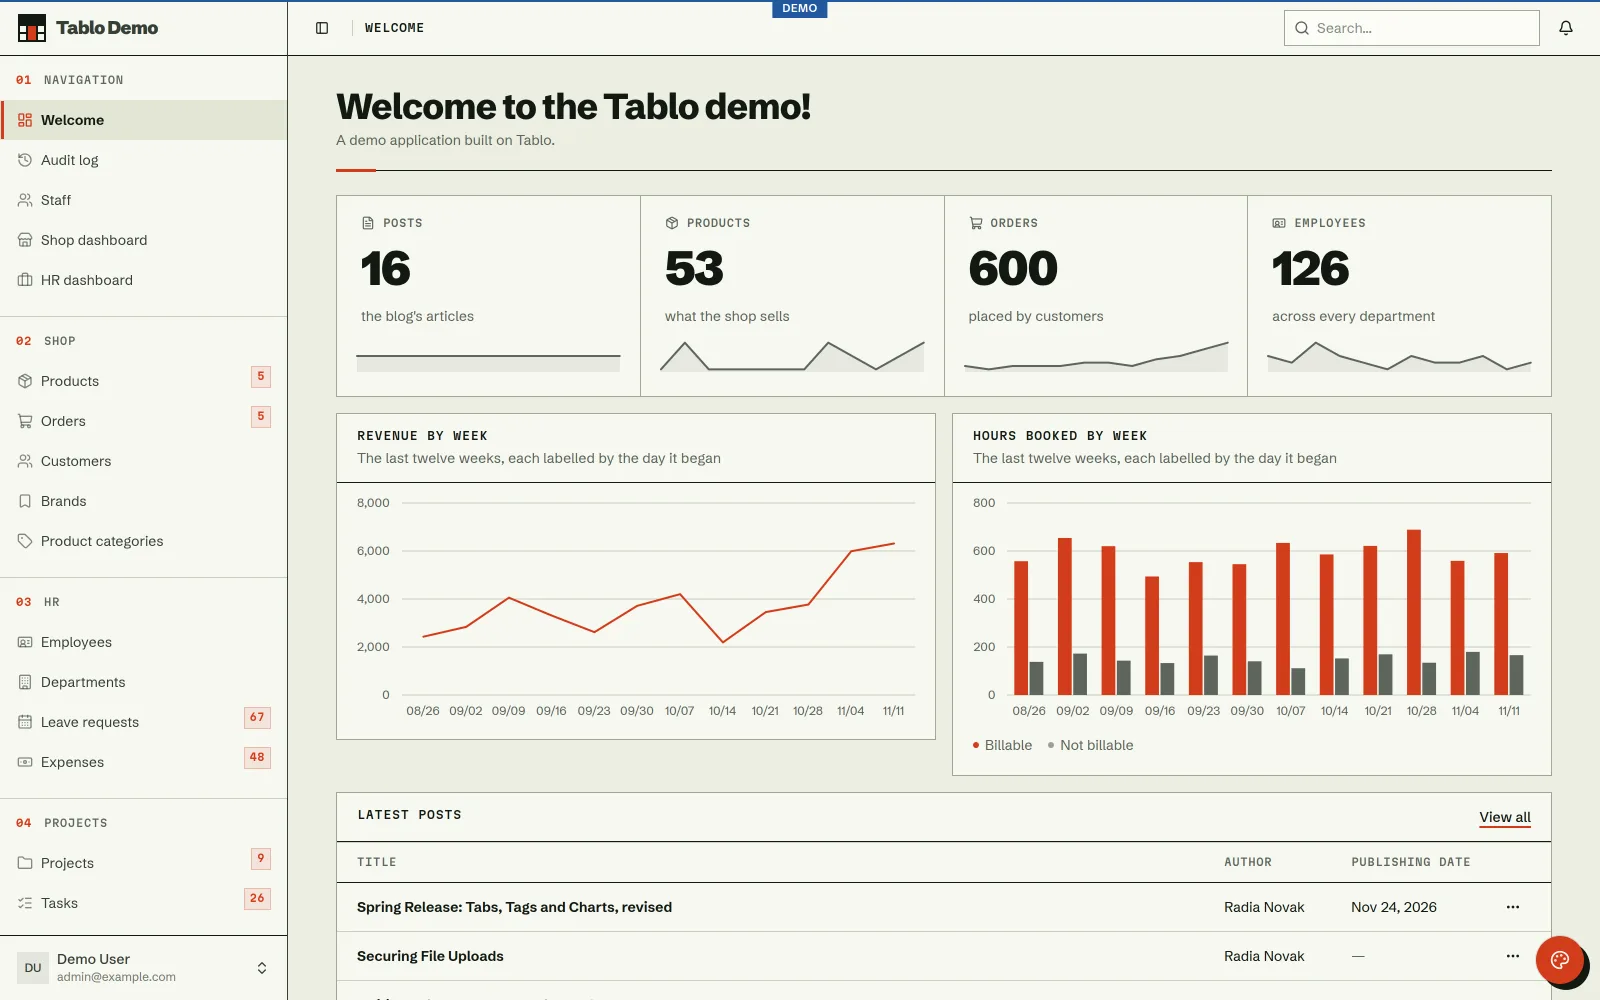
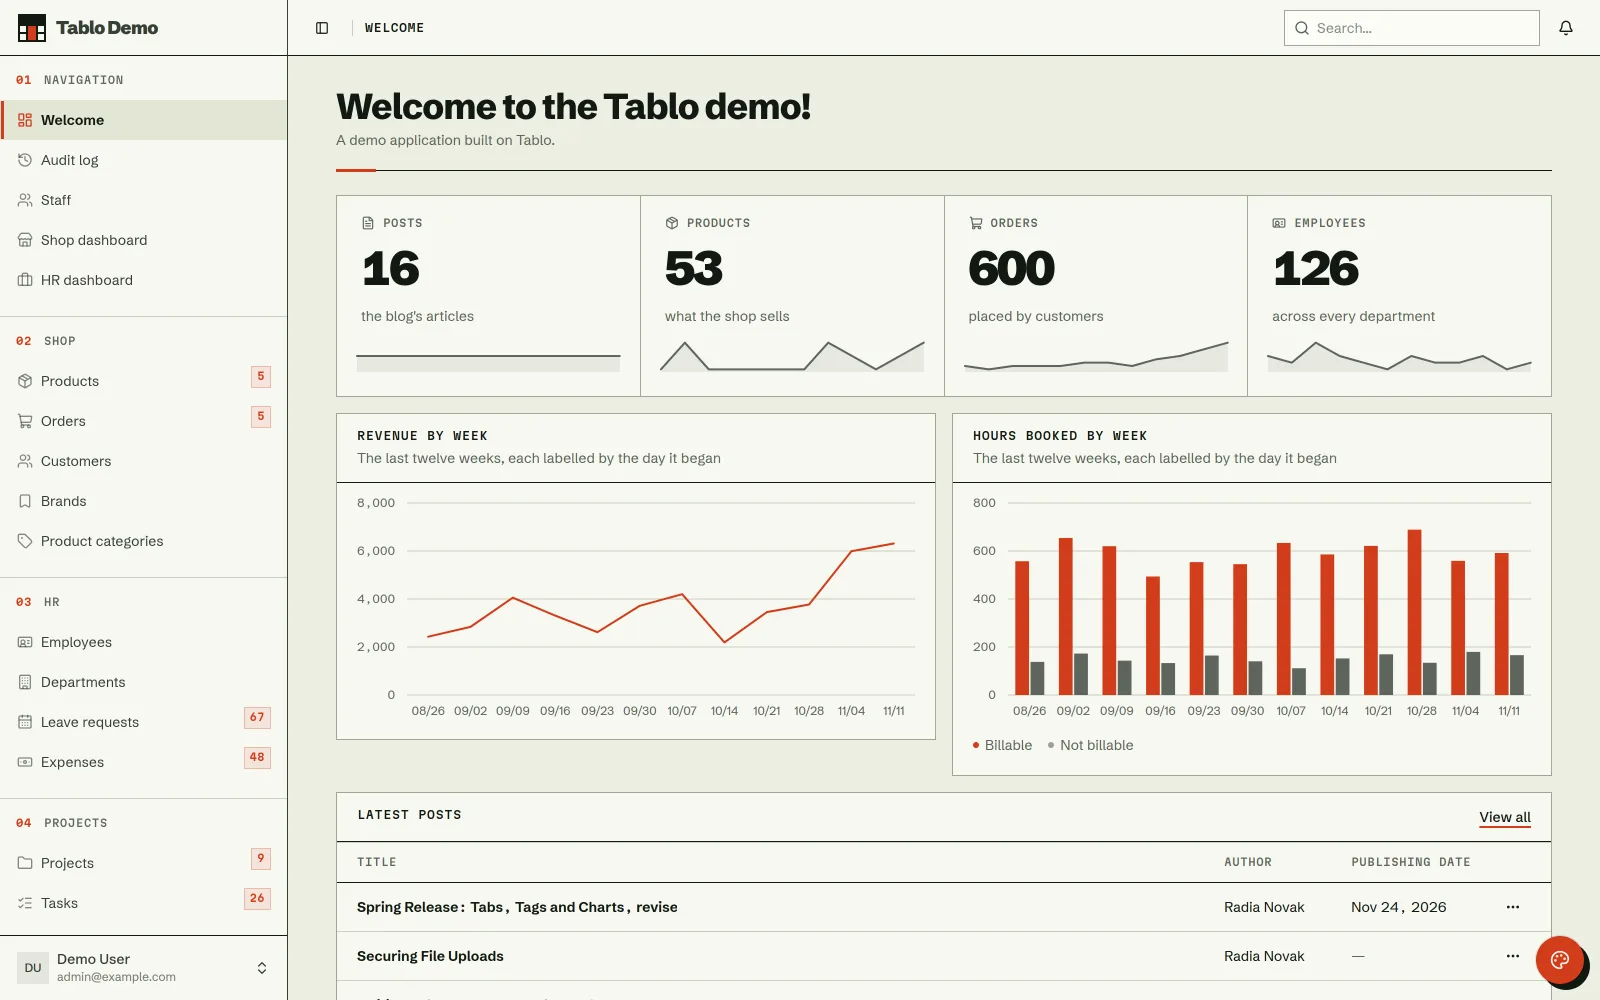
docs(site): retake the demo's shots without the environment ribbon
The demo no longer wears its Demo ribbon, so the landing page's shots are
retaken from the merged demo, and the post list's sort and author callouts
move to match the new capture.

diff --git a/site/index.html b/site/index.html
@@ -75,8 +75,8 @@
               <span class="pin" data-pin="create" data-n="1" style="left:85.4%;top:9.78%;width:10.94%;height:4%"></span>
               <span class="pin" data-pin="widget" data-n="2" style="left:3.66%;top:18.78%;width:92.68%;height:17.35%"></span>
               <span class="pin" data-pin="search" data-n="3" style="left:5.26%;top:39.35%;width:21.95%;height:4%"></span>
-              <span class="pin" data-pin="sort" data-n="4" style="left:12.04%;top:44.8%;width:24.72%;height:4.44%"></span>
-              <span class="pin" data-pin="author" data-n="5" style="left:36.75%;top:49.24%;width:9.68%;height:5.44%"></span>
+              <span class="pin" data-pin="sort" data-n="4" style="left:12.04%;top:44.8%;width:23.97%;height:4.44%"></span>
+              <span class="pin" data-pin="author" data-n="5" style="left:36.01%;top:49.24%;width:9.68%;height:5.44%"></span>
               <span class="pin" data-pin="filters" data-n="6" style="left:86.28%;top:39.35%;width:8.46%;height:4%"></span>
               <span class="pin" data-pin="action" data-n="7" style="left:92%;top:49.96%;width:2.74%;height:4%"></span>
             </div>
